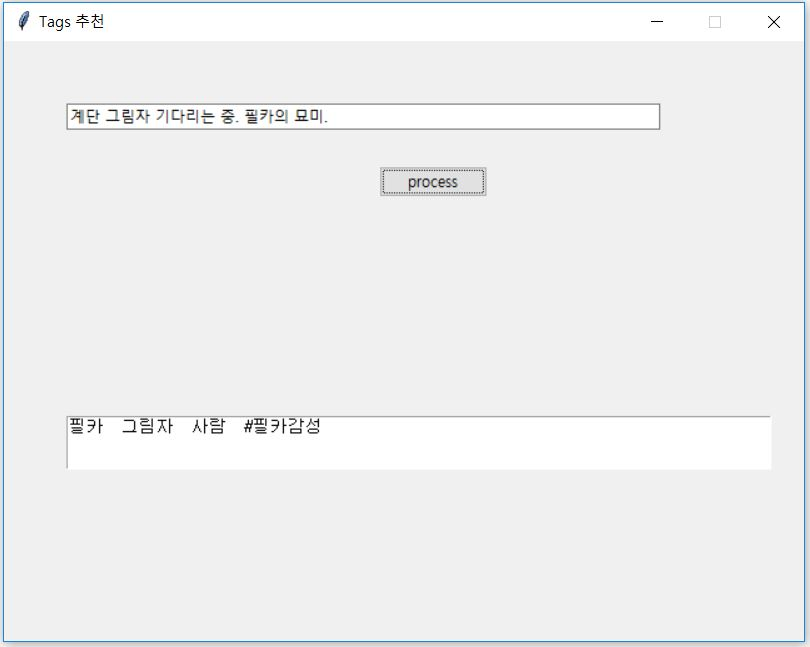
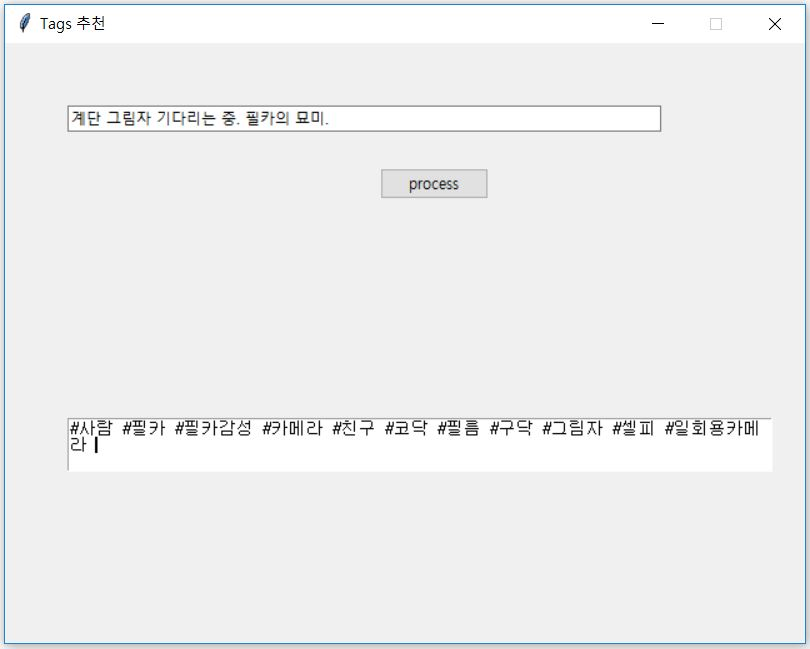
중복 거름

diff --git a/Recommend_tags.py b/Recommend_tags.py
@@ -53,11 +53,10 @@ def nouns(poststr):
 
 	for recomTag in modelResList1:
 		try:	
-			tempStr2 = model2.wv.most_similar(recomTag,topn= 1)
+			tempStr2 = model2.wv.most_similar(recomTag,topn= 5)
 			for kword in tempStr2:
 				modelResList2.append(kword[0])
-				
-			
+
 		except KeyError as e:
 			print(e)
 			continue
@@ -65,6 +64,14 @@ def nouns(poststr):
 	postKwords.extend(modelResList2)
 	print(modelResList1)
 	print(modelResList2)
+
+	for i in range(len(postKwords)):
+		if '#' == postKwords[i][0]:
+			continue
+		else:
+			postKwords[i] = '#' + postKwords[i]
+
+	postKwords = list(set(postKwords))
 	return postKwords
 
 def main():
@@ -82,7 +89,7 @@ def main():
 		
 		resultList = nouns(str.get())
 		for x in resultList:
-    			t.insert(END, x + '  ')
+    			t.insert(END, x + ' ')
 	
 	str = StringVar()
 

diff --git a/Dataset1/Insta_Data_Preprocess.py b/Dataset1/Insta_Data_Preprocess.py
@@ -42,7 +42,7 @@ def main():
             resultList =  okt.nouns(post)
             
             with open('stopwords.txt','rt', encoding='UTF8') as f:
-                b=f.read().split()
+                b = f.read().split()
                 for i in b:
                     if i in resultList:
                         resultList.remove(i)
